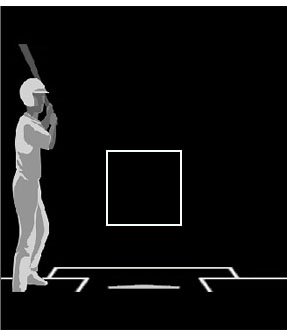
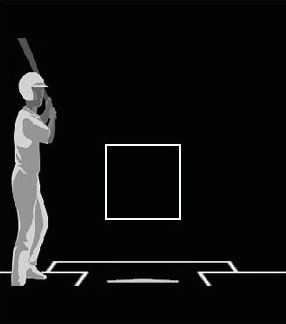
Scale the pitch locations and fix image
Fixes #125

Changed region(s): [[0.0, 0.0, 1.0, 1.0], [0.3636, 0.4321, 0.6434, 0.7099]]

diff --git a/clients/pitchmap/ui/map.js b/clients/pitchmap/ui/map.js
@@ -2,8 +2,8 @@
 
 var React = require('react');
 
-const IMAGE_WIDTH_PX = 287;
-const IMAGE_HEIGHT_PX = 330;
+const IMAGE_WIDTH_PX = 286;
+const IMAGE_HEIGHT_PX = 324;
 const BASE_PX = 72;
 const BASE_FEET = 1 + 5 / 12;
 const FEETS_TO_PIXELS = BASE_PX / BASE_FEET;
@@ -12,7 +12,8 @@ const ORIGIN_X_PIXELS = IMAGE_WIDTH_PX / 2;
 const ORIGIN_Z_PIXELS = IMAGE_HEIGHT_PX - 41;
 
 function feetToPixels(f) {
-  return f * BASE_PX / BASE_FEET;
+  // TODO: Find more accurate image/dimensions.
+  return 0.8 * f * BASE_PX / BASE_FEET;
 }
 
 var Map = React.createClass({
